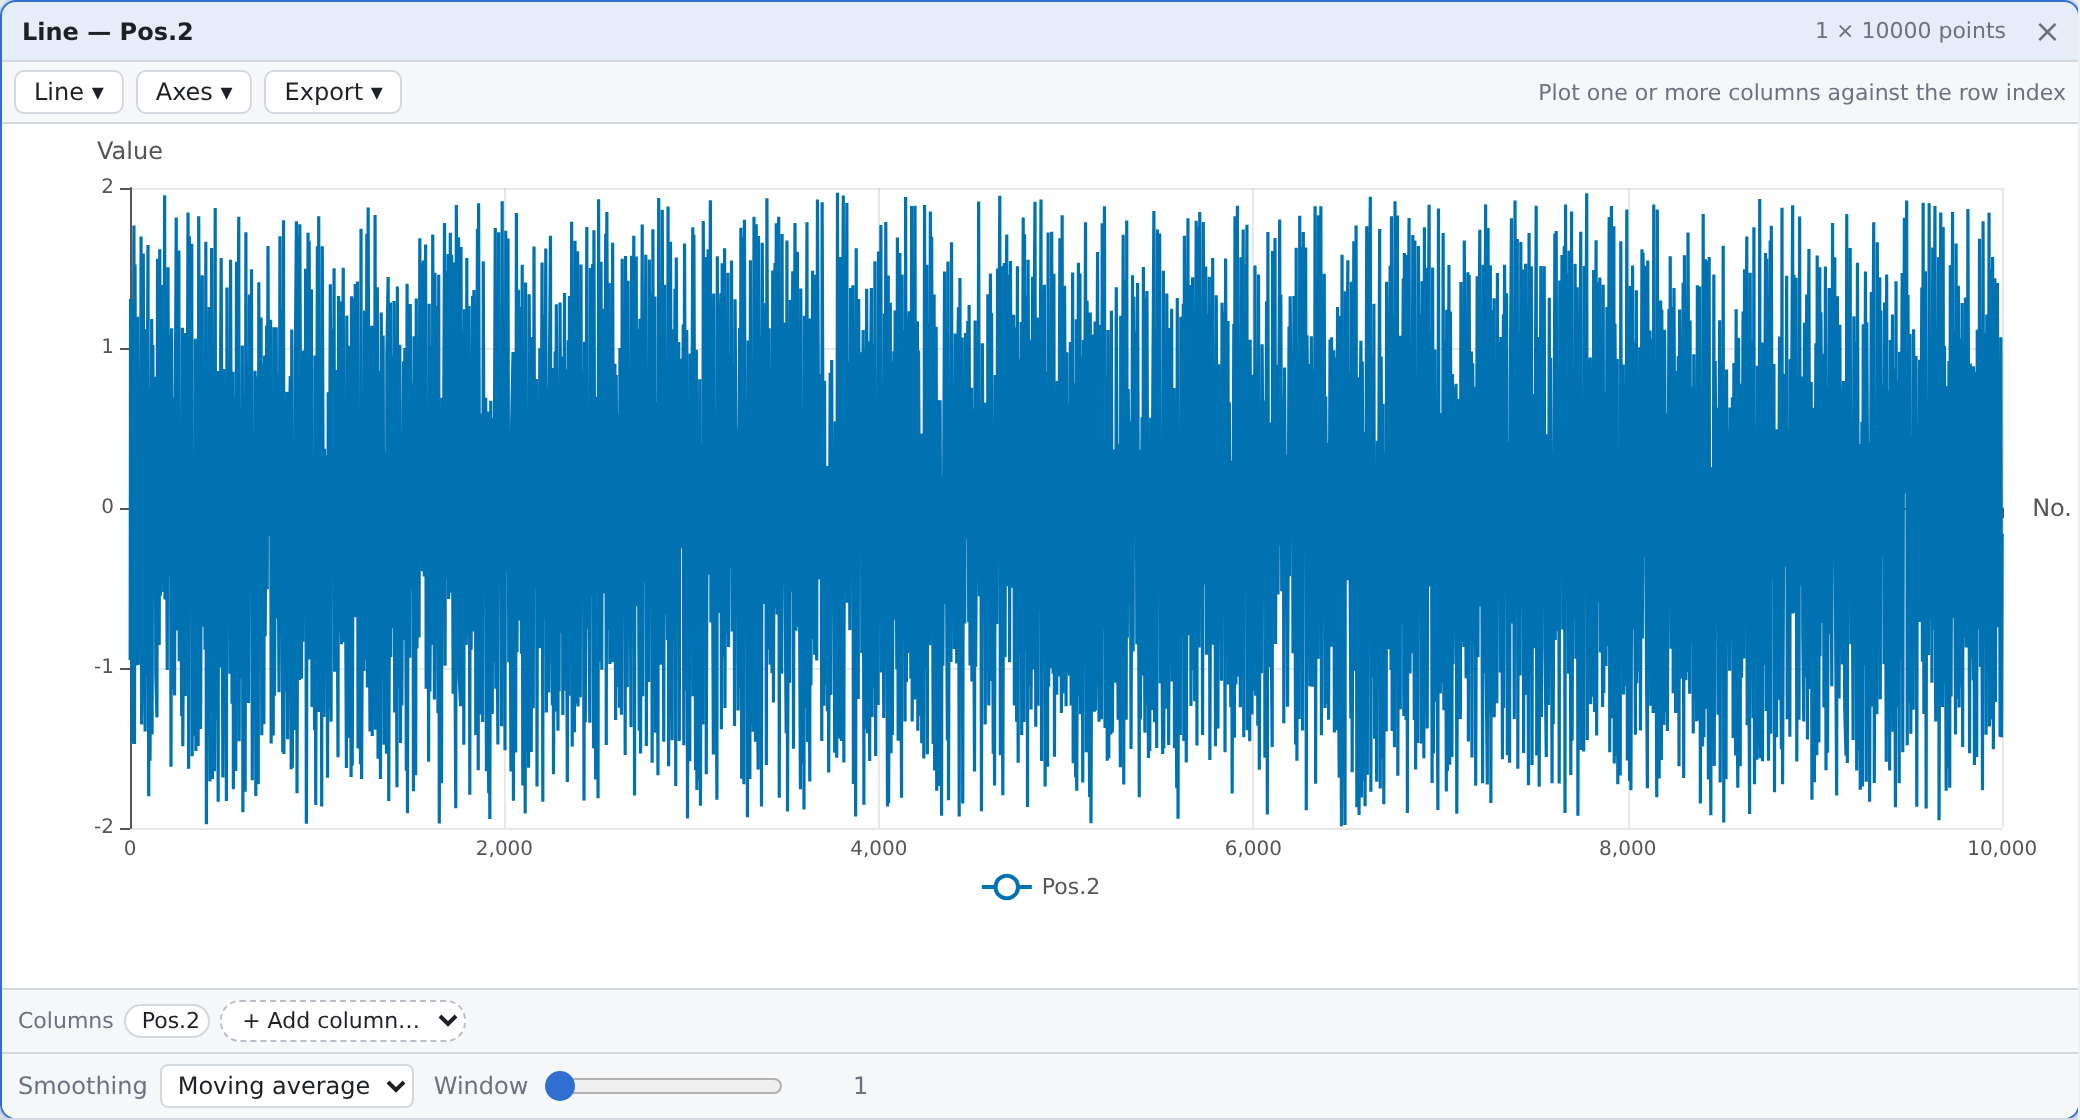
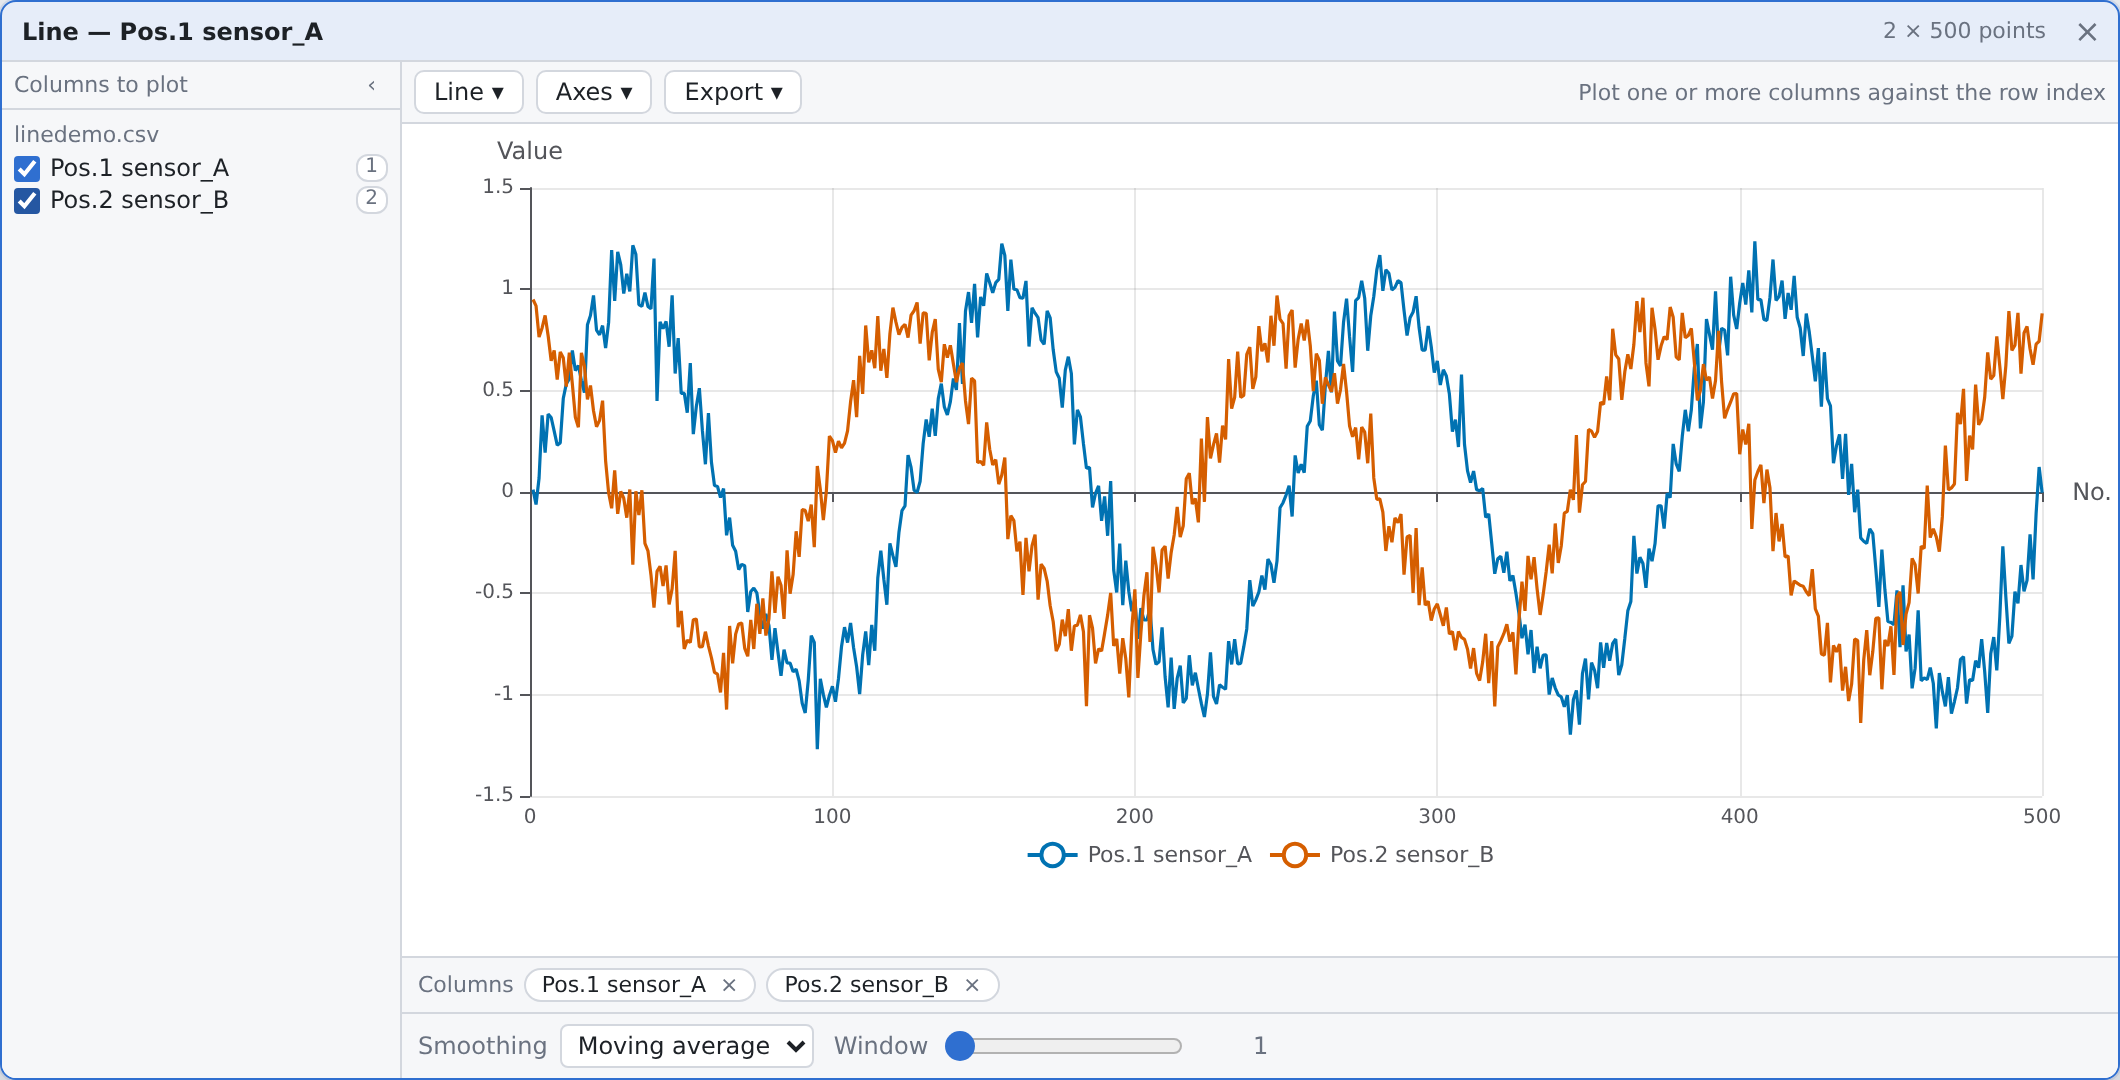
docs: 补齐 9 种图表的成套截图（新增散点/柱状，重拍折线/回归为可读数据）

diff --git a/README.md b/README.md
@@ -142,12 +142,14 @@ The backend holds **authoritative copies** of all data, dependency graphs, and c
 Every image below is real headless-Chromium output of the production build, not a mock-up
 (more in [`web/docs/screenshots/`](web/docs/screenshots/), regenerated by `web/scripts/smoke.mjs`).
 
-| | |
-|---|---|
-| ![Violin](web/docs/screenshots/violin.png) | ![Regression](web/docs/screenshots/regression.png) |
-| **Violin plot** — KDE outline + quartile rules; a bimodal column is obvious at a glance | **Regression** — scatter + OLS fit with slope and R² in the legend |
-| ![Box plot](web/docs/screenshots/boxplot.png) | ![Correlation heatmap](web/docs/screenshots/correlation-heatmap.png) |
-| **Box plot** — median / quartiles / whiskers / Tukey outliers | **Correlation heatmap** — pairwise Pearson matrix |
+| | | |
+|---|---|---|
+| ![Line](web/docs/screenshots/line.png) | ![Scatter](web/docs/screenshots/scatter.png) | ![Regression](web/docs/screenshots/regression.png) |
+| **Line** — one or more columns against the row index; zoom, log Y, smoothing | **Scatter** — two columns paired as (X, Y), optional least-squares line | **Regression** — scatter + OLS fit, annotated with slope and R² |
+| ![Histogram](web/docs/screenshots/histogram.png) | ![Box plot](web/docs/screenshots/boxplot.png) | ![Violin](web/docs/screenshots/violin.png) |
+| **Histogram** — Sturges auto-binning or explicit bin count | **Box plot** — median / quartiles / whiskers / Tukey outliers | **Violin** — KDE outline + quartile rules; bimodality is visible |
+| ![Bar](web/docs/screenshots/bar.png) | ![Mean ± error](web/docs/screenshots/errorbar.png) | ![Correlation heatmap](web/docs/screenshots/correlation-heatmap.png) |
+| **Bar** — grouped or stacked, against the row index | **Mean ± error** — mean with SD / SE / 95 % CI per column | **Correlation heatmap** — pairwise Pearson matrix |
 
 ## Scope & Limitations
 

diff --git a/README.zh-CN.md b/README.zh-CN.md
@@ -153,12 +153,14 @@
 下面每张图都是生产构建在 headless Chromium 里的真实输出，不是示意图（更多见
 [`web/docs/screenshots/`](web/docs/screenshots/)，由 `web/scripts/smoke.mjs` 可复现生成）。
 
-| | |
-|---|---|
-| ![小提琴图](web/docs/screenshots/violin.png) | ![回归图](web/docs/screenshots/regression.png) |
-| **小提琴图**——KDE 轮廓 + 四分位线，双峰列一眼可见 | **回归图**——散点 + OLS 拟合，图例含斜率与 R² |
-| ![箱线图](web/docs/screenshots/boxplot.png) | ![相关性热力图](web/docs/screenshots/correlation-heatmap.png) |
-| **箱线图**——中位数/四分位/须线/Tukey 离群点 | **相关性热力图**——两两 Pearson 矩阵 |
+| | | |
+|---|---|---|
+| ![折线图](web/docs/screenshots/line.png) | ![散点图](web/docs/screenshots/scatter.png) | ![回归图](web/docs/screenshots/regression.png) |
+| **折线图**——一列或多列按行号展开，可缩放/对数轴/平滑 | **散点图**——两列配对 (X, Y)，可叠加最小二乘线 | **回归图**——散点 + OLS 拟合，标注斜率与 R² |
+| ![直方图](web/docs/screenshots/histogram.png) | ![箱线图](web/docs/screenshots/boxplot.png) | ![小提琴图](web/docs/screenshots/violin.png) |
+| **直方图**——Sturges 自动分箱或显式指定箱数 | **箱线图**——中位数/四分位/须线/Tukey 离群点 | **小提琴图**——KDE 轮廓 + 四分位线，双峰一眼可见 |
+| ![柱状图](web/docs/screenshots/bar.png) | ![均值±误差](web/docs/screenshots/errorbar.png) | ![相关性热力图](web/docs/screenshots/correlation-heatmap.png) |
+| **柱状图**——分组/堆叠，按行号展开 | **均值±误差**——每列均值 + SD/SE/95% CI | **相关性热力图**——两两 Pearson 矩阵 |
 
 ## 适用范围与限制
 

diff --git a/web/docs/screenshots/README.md b/web/docs/screenshots/README.md
@@ -11,6 +11,9 @@
 
 | 文件 | 图型 | 看点 |
 |------|------|------|
+| [`hero.png`](hero.png) | 整屏 | 数据卡 + 相关性热力图卡 + 卡片级连线（README 头图） |
+| [`scatter.png`](scatter.png) | 散点图 | 两列配对 (X, Y) + 最小二乘线；列 dock 里的勾选顺序即配对顺序 |
+| [`bar.png`](bar.png) | 柱状图 | 8 个类别 × 3 组的分组柱；行数一多就会退化成"噪声带"，柱状图只适合少类别 |
 | [`line.png`](line.png) | 折线图 | 多列叠加、图例、缩放/平移 |
 | [`histogram.png`](histogram.png) | 直方图 | Sturges 自动分箱、箱边界描边 |
 | [`boxplot.png`](boxplot.png) | 箱线图 | 中位数 / 四分位 / 须线 / Tukey 离群点 |
